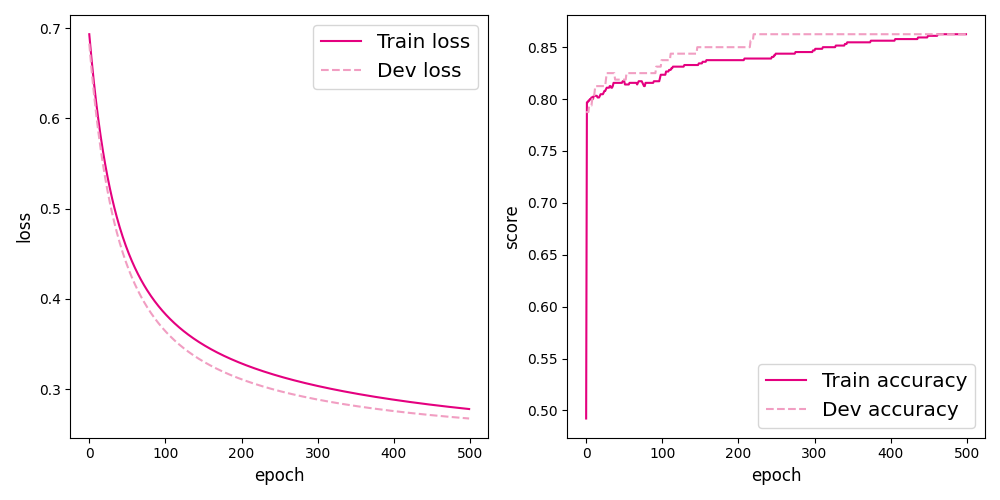
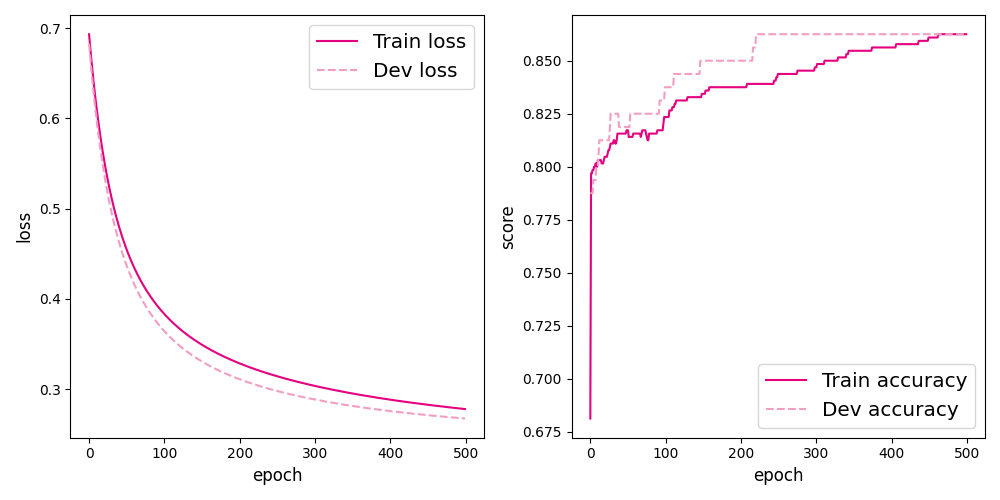
feat: init model use gaosi*0.01 not zero will get better score

diff --git a/3_linear/nndl/op.py b/3_linear/nndl/op.py
@@ -27,8 +27,8 @@ class model_LR(Op):
         super(model_LR, self).__init__()
 
         self.params = {}
-        self.params['w'] = torch.zeros((input_dim, 1), dtype=torch.float32) # 线性层的权重参数初始化为0
-        # self.params['w'] = torch.normal(mean=0, std=0.01, size=(input_dim, 1), dtype=torch.float32) * 0.01 # 线性层的权重参数全部随机高斯分布
+        # self.params['w'] = torch.zeros((input_dim, 1), dtype=torch.float32) # 线性层的权重参数初始化为0
+        self.params['w'] = torch.normal(mean=0, std=0.01, size=(input_dim, 1), dtype=torch.float32) * 0.01 # 线性层的权重参数全部随机高斯分布
         # 乘以 0.01 是为了 让权重初始化更小、训练更稳定, 防止梯度爆炸或消失，是一种简易但有效的初始化策略
         self.params['b'] = torch.zeros(1, dtype=torch.float32)
 

diff --git a/3_linear/nndl/runner.py b/3_linear/nndl/runner.py
@@ -42,7 +42,7 @@ class Runner(object):
                 print_grads(self.model)
             # 更新模型参数
             self.optimizer.step()
-            dev_score, dev_loss = self.evaluate(dev_set)
+            dev_score, dev_loss = self.evaluate(dev_set) # 如果把 该代码放到更新参数前, 会改变模型中X的状态, 变成验证集
             if dev_score > best_score:
                 self.save_model(save_path)
                 print(f"best accuracy performence has been updated: {best_score:.5f} --> {dev_score:.5f}")
